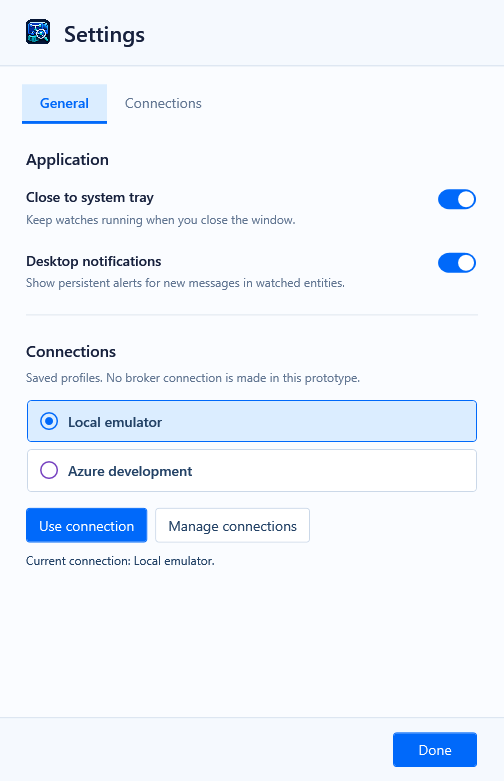
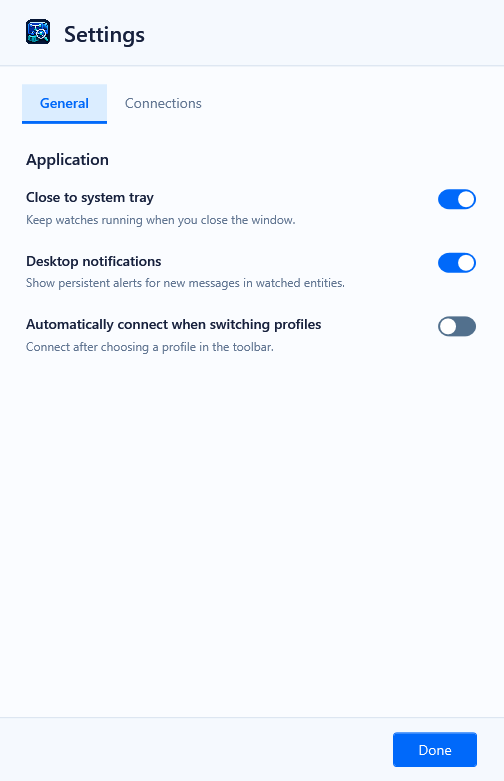
Simplify settings and add opt-in connection on profile switch

Changed region(s): [[0.0298, 0.3995, 0.9524, 0.6146], [0.0298, 0.6453, 0.5952, 0.7375], [0.8631, 0.3995, 0.9524, 0.4302]]

diff --git a/tools/ServiceBusEmulatorExplorer.InvestigationPrototype/PrototypeSettingsWindow.xaml b/tools/ServiceBusEmulatorExplorer.InvestigationPrototype/PrototypeSettingsWindow.xaml
@@ -35,14 +35,7 @@
      <Grid><Grid.ColumnDefinitions><ColumnDefinition Width="*"/><ColumnDefinition Width="Auto"/></Grid.ColumnDefinitions><StackPanel Margin="0,0,16,0"><TextBlock Text="Close to system tray" FontWeight="SemiBold"/><TextBlock Text="Keep watches running when you close the window." TextWrapping="Wrap" Foreground="{DynamicResource SecondaryBrush}" FontSize="12" Margin="0,5,0,0"/></StackPanel><ToggleButton x:Name="CloseToTrayToggle" Grid.Column="1" Style="{StaticResource Switch}" VerticalAlignment="Top" Checked="CloseToTray_Changed" Unchecked="CloseToTray_Changed" AutomationProperties.AutomationId="CloseToTrayToggle" AutomationProperties.Name="Close to system tray"/></Grid>
      <TextBlock x:Name="TrayUnavailableText" Text="System tray is unavailable in this session." Foreground="#8A5914" FontSize="12" TextWrapping="Wrap" Margin="0,8,0,0" Visibility="Collapsed"/>
      <Grid Margin="0,24,0,0"><Grid.ColumnDefinitions><ColumnDefinition Width="*"/><ColumnDefinition Width="Auto"/></Grid.ColumnDefinitions><StackPanel Margin="0,0,16,0"><TextBlock Text="Desktop notifications" FontWeight="SemiBold"/><TextBlock Text="Show persistent alerts for new messages in watched entities." TextWrapping="Wrap" Foreground="{DynamicResource SecondaryBrush}" FontSize="12" Margin="0,5,0,0"/></StackPanel><ToggleButton x:Name="NotificationsToggle" Grid.Column="1" Style="{StaticResource Switch}" VerticalAlignment="Top" Checked="Notifications_Changed" Unchecked="Notifications_Changed" AutomationProperties.AutomationId="NotificationsToggle" AutomationProperties.Name="Desktop notifications"/></Grid>
-     <Border Height="1" Background="{DynamicResource DividerBrush}" Margin="0,24"/>
-     <TextBlock Text="Connections" FontSize="16" FontWeight="SemiBold"/>
-     <TextBlock Text="Saved profiles. No broker connection is made in this prototype." TextWrapping="Wrap" Foreground="{DynamicResource SecondaryBrush}" FontSize="12" Margin="0,8,0,14"/>
-     <ListBox x:Name="ConnectionPicker" ItemContainerStyle="{StaticResource ProfileItem}" Background="Transparent" BorderThickness="0" SelectionMode="Single" ScrollViewer.HorizontalScrollBarVisibility="Disabled" SelectionChanged="ConnectionPicker_Selected" AutomationProperties.AutomationId="ConnectionPicker" AutomationProperties.Name="Connection to use">
-
-     </ListBox>
-     <WrapPanel Margin="0,8,0,0"><Button x:Name="UseConnectionButton" Content="Use connection" Style="{StaticResource PrimaryButton}" Margin="0,0,8,8" Click="UseConnection_Click" AutomationProperties.AutomationId="UseConnectionButton"/><Button Content="Manage connections" Margin="0,0,0,8" Click="ManageConnections_Click" AutomationProperties.AutomationId="ManageConnectionsButton"/></WrapPanel>
-     <TextBlock x:Name="ConnectionStatus" TextWrapping="Wrap" Foreground="{DynamicResource ActionTextBrush}" FontSize="12" Margin="0,2,0,0" AutomationProperties.AutomationId="ConnectionStatus" AutomationProperties.LiveSetting="Polite"/>
+     <Grid Margin="0,24,0,0"><Grid.ColumnDefinitions><ColumnDefinition Width="*"/><ColumnDefinition Width="Auto"/></Grid.ColumnDefinitions><StackPanel Margin="0,0,16,0"><TextBlock Text="Automatically connect when switching profiles" TextWrapping="Wrap" FontWeight="SemiBold"/><TextBlock Text="Connect after choosing a profile in the toolbar." TextWrapping="Wrap" Foreground="{DynamicResource SecondaryBrush}" FontSize="12" Margin="0,5,0,0"/></StackPanel><ToggleButton x:Name="AutoConnectToggle" Grid.Column="1" Style="{StaticResource Switch}" VerticalAlignment="Top" Checked="AutoConnect_Changed" Unchecked="AutoConnect_Changed" AutomationProperties.AutomationId="AutoConnectToggle" AutomationProperties.Name="Automatically connect when switching profiles"/></Grid>
     </StackPanel></ScrollViewer>
    </TabItem>
    <TabItem x:Name="ConnectionsTab" Header="Connections" AutomationProperties.AutomationId="ConnectionsTab">

diff --git a/tools/ServiceBusEmulatorExplorer.InvestigationPrototype/AutoConnectProof.cs b/tools/ServiceBusEmulatorExplorer.InvestigationPrototype/AutoConnectProof.cs
@@ -1,0 +1,119 @@
+using System.IO;
+using System.Reflection;
+using System.Windows;
+using System.Windows.Automation;
+using System.Windows.Automation.Peers;
+using System.Windows.Automation.Provider;
+using System.Windows.Controls;
+using System.Windows.Controls.Primitives;
+using System.Windows.Threading;
+
+namespace ServiceBusEmulatorExplorer.InvestigationPrototype;
+
+internal static class AutoConnectProof
+{
+    public static async Task Exercise(PrototypeWindow owner, List<string> report, string output)
+    {
+        var path = Path.Combine(output, "auto-connect-" + Guid.NewGuid().ToString("N") + ".json");
+        var window = new PrototypeWindow();
+        window.ConfigureApplicationLifetime(true);
+        Call(window, "InitializePreferences", path);
+        try
+        {
+            window.Show();
+            await Settle();
+            var selector = (ComboBox)window.FindName("ConnectionSelector");
+            var original = (PrototypeConnectionProfile)selector.SelectedItem;
+            var other = selector.Items.Cast<PrototypeConnectionProfile>().First(profile => profile != original);
+            var settings = await Settings(window);
+            var toggle = (ToggleButton)settings.FindName("AutoConnectToggle");
+            Check(toggle.IsChecked == false, "Automatically connect on profile switch defaults to off", report);
+            Click(settings, "DoneButton");
+            selector.SelectedItem = other;
+            await Settle();
+            Check(!window.Workspace.IsConnected, "Switching profiles with auto-connect off leaves the connection disconnected", report);
+            settings = await Settings(window);
+            toggle = (ToggleButton)settings.FindName("AutoConnectToggle");
+            ((IToggleProvider)(UIElementAutomationPeer.CreatePeerForElement(toggle) ?? new ToggleButtonAutomationPeer(toggle)).GetPattern(PatternInterface.Toggle)).Toggle();
+            Click(settings, "DoneButton");
+            selector.SelectedItem = original;
+            await Settle();
+            Check(window.Workspace.IsConnected, "Enabling auto-connect connects the newly selected profile", report);
+            other.WarningMessage = "Approve before connecting this proof profile.";
+            var prompts = Respond(() => selector.SelectedItem = other, false);
+            await Settle();
+            Check(prompts == 1 && ReferenceEquals(selector.SelectedItem, original) && window.Workspace.IsConnected,
+                "Auto-connect warning cancellation keeps the previously connected profile", report);
+            prompts = Respond(() => selector.SelectedItem = other, true);
+            await Settle();
+            Check(prompts == 1 && ReferenceEquals(selector.SelectedItem, other) && window.Workspace.IsConnected,
+                "Approving auto-connect warning connects once without a second prompt", report);
+            Click(window, "ConnectionButton");
+            settings = await Settings(window);
+            ((TabItem)settings.FindName("ConnectionsTab")).IsSelected = true;
+            await Settle();
+            ((TextBox)settings.FindName("ProfileName")).Text = other.Name + " edited";
+            Click(settings, "SaveProfileButton");
+            await Settle();
+            Check(!window.Workspace.IsConnected, "Saving the current profile does not trigger auto-connect", report);
+            Click(settings, "DoneButton");
+            window.Close();
+            await Settle();
+            var store = new PrototypePreferencesStore(path);
+            Check(store.TryLoad(out var preferences, out _) && preferences.AutoConnectOnSwitch,
+                "Auto-connect preference persists to an isolated preferences file", report);
+            var reopened = new PrototypeWindow();
+            reopened.ConfigureApplicationLifetime(true);
+            Call(reopened, "InitializePreferences", path);
+            try
+            {
+                reopened.Show();
+                await Settle();
+                settings = await Settings(reopened);
+                Check(((ToggleButton)settings.FindName("AutoConnectToggle")).IsChecked == true,
+                    "A fresh Settings window restores the saved auto-connect switch", report);
+                ProofCapture.Save(settings, output, "auto-connect-settings");
+                Click(settings, "DoneButton");
+            }
+            finally { reopened.Close(); }
+        }
+        finally { if (window.IsLoaded) window.Close(); }
+        await Settle();
+        owner.Activate();
+    }
+
+    private static int Respond(Action action, bool accept)
+    {
+        var count = 0;
+        var timer = new DispatcherTimer { Interval = TimeSpan.FromMilliseconds(10) };
+        timer.Tick += (_, _) =>
+        {
+            foreach (var warning in Application.Current.Windows.OfType<ProfileWarningWindow>().ToArray())
+            {
+                count++;
+                Click(warning, accept ? "ContinueButton" : "CancelButton");
+            }
+        };
+        timer.Start();
+        try { action(); }
+        finally { timer.Stop(); }
+        return count;
+    }
+
+    private static async Task<PrototypeSettingsWindow> Settings(PrototypeWindow window)
+    {
+        ProofCapture.Descendants(window).OfType<Button>().Single(button => AutomationProperties.GetName(button) == "Settings")
+            .RaiseEvent(new RoutedEventArgs(ButtonBase.ClickEvent));
+        await Settle();
+        return Application.Current.Windows.OfType<PrototypeSettingsWindow>().Single();
+    }
+    private static void Call(PrototypeWindow window, string method, params object[] args) => typeof(PrototypeWindow)
+        .GetMethod(method, BindingFlags.Instance | BindingFlags.NonPublic)!.Invoke(window, args);
+    private static void Click(Window window, string name) => ((ButtonBase)window.FindName(name)).RaiseEvent(new RoutedEventArgs(ButtonBase.ClickEvent));
+    private static Task Settle() => Application.Current.Dispatcher.InvokeAsync(() => { }, DispatcherPriority.ApplicationIdle).Task;
+    private static void Check(bool condition, string message, List<string> report)
+    {
+        if (!condition) throw new InvalidOperationException(message);
+        report.Add("- PASS: " + message);
+    }
+}

diff --git a/tools/ServiceBusEmulatorExplorer.InvestigationPrototype/PrototypeSettingsWindow.xaml.cs b/tools/ServiceBusEmulatorExplorer.InvestigationPrototype/PrototypeSettingsWindow.xaml.cs
@@ -9,6 +9,7 @@ public sealed class PrototypeConnectionSettings
     public PrototypeConnectionSettings() => SelectedProfile = Profiles[0];
 
     public PrototypeConnectionProfile SelectedProfile { get; set; }
+    public bool AutoConnectOnSwitch { get; set; }
 
     public List<PrototypeConnectionProfile> Profiles { get; } =
     [
@@ -84,16 +85,14 @@ public partial class PrototypeSettingsWindow : Window
         CloseToTrayToggle.IsEnabled = canCloseToTray;
         TrayUnavailableText.Visibility = canCloseToTray ? Visibility.Collapsed : Visibility.Visible;
         NotificationsToggle.IsChecked = notificationsEnabled;
+        AutoConnectToggle.IsChecked = connections.AutoConnectOnSwitch;
         ColorPicker.ItemsSource = new ProfileAccent[]
         {
             new("Blue", "#0069FA"), new("Purple", "#7540BF"), new("Teal", "#007F80"),
             new("Orange", "#B85B00"), new("Red", "#C83B3B")
         };
         ProfilesList.ItemsSource = connections.Profiles;
-        ConnectionPicker.ItemsSource = connections.Profiles;
-        ConnectionPicker.SelectedItem = connections.SelectedProfile;
         ProfilesList.SelectedItem = connections.SelectedProfile;
-        UpdateConnectionStatus();
         _ready = true;
     }
 
@@ -109,34 +108,11 @@ public partial class PrototypeSettingsWindow : Window
         _setNotifications(NotificationsToggle.IsChecked == true);
         _preferencesChanged?.Invoke();
     }
-    private void ManageConnections_Click(object sender, RoutedEventArgs e)
-    {
-        ProfilesList.SelectedItem = ConnectionPicker.SelectedItem;
-        SettingsTabs.SelectedItem = ConnectionsTab;
-    }
-
-    private void ConnectionPicker_Selected(object sender, SelectionChangedEventArgs e)
+    private void AutoConnect_Changed(object sender, RoutedEventArgs e)
     {
         if (!_ready) return;
-        UseConnectionButton.IsEnabled = ConnectionPicker.SelectedItem is PrototypeConnectionProfile;
-        UpdateConnectionStatus();
-    }
-
-    private void UpdateConnectionStatus()
-    {
-        ConnectionStatus.Text = $"Current connection: {_connections.SelectedProfile.Name}.";
-        if (ConnectionPicker.SelectedItem is PrototypeConnectionProfile selected &&
-            !ReferenceEquals(selected, _connections.SelectedProfile))
-            ConnectionStatus.Text += " Select Use connection to switch.";
-    }
-
-    private void UseConnection_Click(object sender, RoutedEventArgs e)
-    {
-        if (ConnectionPicker.SelectedItem is not PrototypeConnectionProfile profile) return;
-        if (_useConnection is null) _connections.SelectedProfile = profile;
-        else _useConnection(profile);
+        _connections.AutoConnectOnSwitch = AutoConnectToggle.IsChecked == true;
         _preferencesChanged?.Invoke();
-        UpdateConnectionStatus();
     }
 
     private void AddConnection_Click(object sender, RoutedEventArgs e)
@@ -146,7 +122,6 @@ public partial class PrototypeSettingsWindow : Window
         var profile = new PrototypeConnectionProfile($"Connection {number}", string.Empty, string.Empty);
         _connections.Profiles.Add(profile);
         ProfilesList.Items.Refresh();
-        ConnectionPicker.Items.Refresh();
         ProfilesList.SelectedItem = profile;
         ProfilesList.ScrollIntoView(profile);
         ProfileName.Focus();
@@ -180,9 +155,7 @@ public partial class PrototypeSettingsWindow : Window
         if (ColorPicker.SelectedItem is ProfileAccent accent) profile.ColorHex = accent.ColorHex;
         profile.WarningMessage = ConnectionWarning.Text.Trim();
         ProfilesList.Items.Refresh();
-        ConnectionPicker.Items.Refresh();
         if (ReferenceEquals(profile, _connections.SelectedProfile)) _useConnection?.Invoke(profile);
-        UpdateConnectionStatus();
         ProfileStatus.Text = "Profile updated. No connection was attempted.";
         _preferencesChanged?.Invoke();
     }

diff --git a/tools/ServiceBusEmulatorExplorer.InvestigationPrototype/SettingsSelectorProof.cs b/tools/ServiceBusEmulatorExplorer.InvestigationPrototype/SettingsSelectorProof.cs
@@ -45,7 +45,7 @@ internal static class SettingsSelectorProof
         popup.IsOpen = false;
         await ExerciseSettings(window, report, output);
         await ExerciseRefresh(window, report, output);
-        await ExerciseConnectionPicker(window, report, output);
+        await ExerciseToolbarConnection(window, report, output);
     }
 
     private static async Task ExerciseWatchOverview(PrototypeWindow window, List<string> report, string output)
@@ -157,22 +157,19 @@ internal static class SettingsSelectorProof
         await Settle();
     }
 
-    private static async Task ExerciseConnectionPicker(PrototypeWindow window, List<string> report, string output)
+    private static async Task ExerciseToolbarConnection(PrototypeWindow window, List<string> report, string output)
     {
-        var settings = await OpenSettings(window);
-        var picker = (ListBox)settings.FindName("ConnectionPicker");
+        var picker = (ComboBox)window.FindName("ConnectionSelector");
         var local = picker.Items.Cast<PrototypeConnectionProfile>().First(profile => profile.Name == "Local emulator");
         var azure = picker.Items.Cast<PrototypeConnectionProfile>().First(profile => profile != local);
-        Check(ReferenceEquals(picker.SelectedItem, local), "General connection picker starts on the current local emulator profile", report);
-        picker.SelectedItem = azure;
-        await Settle();
-        Check(((TextBlock)window.FindName("ConnectionName")).Text == local.Name, "Highlighting another profile does not switch the current connection", report);
+        Check(ReferenceEquals(picker.SelectedItem, local), "Header connection picker starts on the current local emulator profile", report);
+
         window.SetWatched(window.Workspace.EntityPath, true, true);
         var before = window.Workspace.SnapshotMessages().Count;
         window.SimulateWatchedArrivals();
         await Settle();
         Check(Application.Current.Windows.OfType<WatchNotificationWindow>().Any(), "Connection-switch proof starts with a pending watched arrival", report);
-        Click(settings, "UseConnectionButton");
+        picker.SelectedItem = azure;
         await Settle();
         Check(((TextBlock)window.FindName("ConnectionName")).Text == azure.Name && !window.Workspace.IsConnected,
             "Using a selected connection updates header and disconnects before investigation", report);
@@ -180,10 +177,8 @@ internal static class SettingsSelectorProof
             && ((TextBox)window.FindName("SearchBox")).Text.Length == 0,
             "Connection switch clears watches, pending notifications, and search", report);
         Check(window.Workspace.SnapshotMessages().Count < before + 1, "Connection switch resets the previous session's synthetic arrivals", report);
-        ProofCapture.Save(settings, output, "settings-connection-picker");
+        ProofCapture.Save(window, output, "header-connection-picker");
         picker.SelectedItem = local;
-        Click(settings, "UseConnectionButton");
-        Click(settings, "DoneButton");
         await Settle();
         if (!window.Workspace.IsConnected) Click(window, "ConnectionButton");
         await Settle();

diff --git a/tools/ServiceBusEmulatorExplorer.InvestigationPrototype/ProfileThemeProof.cs b/tools/ServiceBusEmulatorExplorer.InvestigationPrototype/ProfileThemeProof.cs
@@ -137,10 +137,11 @@ internal static class ProfileThemeProof
                 .RaiseEvent(new RoutedEventArgs(ButtonBase.ClickEvent));
             await Settle();
             var settings = Application.Current.Windows.OfType<PrototypeSettingsWindow>().Single();
-            ((ListBox)settings.FindName("ConnectionPicker")).SelectedItem = target;
-            await Respond(() => Click(settings, "UseConnectionButton"), true, false, output, "profile-warning-pending-settings-save", report, SaveWhilePending);
+            ((TabItem)settings.FindName("ConnectionsTab")).IsSelected = true;
+            ((ListBox)settings.FindName("ProfilesList")).SelectedItem = target;
+            Click(settings, "SaveProfileButton");
             Check(ReferenceEquals(selector.SelectedItem, approved) && window.Workspace.CorrelationQuery == query,
-                "Settings warning cancellation preserves the approved profile and applied search", report);
+                "Managing an inactive profile preserves the approved connection and applied search", report);
             settings.Close();
         }
         finally { window.Close(); }

diff --git a/tools/ServiceBusEmulatorExplorer.InvestigationPrototype/PreferenceInteractions.cs b/tools/ServiceBusEmulatorExplorer.InvestigationPrototype/PreferenceInteractions.cs
@@ -37,6 +37,7 @@ public partial class PrototypeWindow
     {
         closeToTray = preferences.CloseToTray && (tray is not null || proofLifetime);
         notificationsEnabled = preferences.NotificationsEnabled;
+        connectionSettings.AutoConnectOnSwitch = preferences.AutoConnectOnSwitch;
         Width = Math.Clamp(preferences.Width, MinWidth, Math.Max(MinWidth, SystemParameters.WorkArea.Width));
         Height = Math.Clamp(preferences.Height, MinHeight, Math.Max(MinHeight, SystemParameters.WorkArea.Height));
         AutoInterval.SelectedIndex = Math.Clamp(preferences.RefreshIndex, 0, 3);
@@ -86,6 +87,7 @@ public partial class PrototypeWindow
         preferences.SelectedProfileId = connectionSettings.SelectedProfile.Id;
         preferences.CloseToTray = closeToTray;
         preferences.NotificationsEnabled = notificationsEnabled;
+        preferences.AutoConnectOnSwitch = connectionSettings.AutoConnectOnSwitch;
         preferences.RefreshIndex = AutoInterval.SelectedIndex;
         preferences.RefreshPaused = paused;
         preferences.SearchByMessageId = Workspace.SearchByMessageId;

diff --git a/tools/ServiceBusEmulatorExplorer.InvestigationPrototype/InvestigationProof.cs b/tools/ServiceBusEmulatorExplorer.InvestigationPrototype/InvestigationProof.cs
@@ -40,6 +40,7 @@ internal static class InvestigationProof
             await PreferencesProof.Exercise(window, report, output);
             await ProfileThemeProof.Exercise(window, report, output);
             await AddConnectionProof.Exercise(window, report, output);
+            await AutoConnectProof.Exercise(window, report, output);
             File.WriteAllLines(Path.Combine(output, "report.md"), report);
             return 0;
         }

diff --git a/tools/ServiceBusEmulatorExplorer.InvestigationPrototype/PrototypePreferences.cs b/tools/ServiceBusEmulatorExplorer.InvestigationPrototype/PrototypePreferences.cs
@@ -22,6 +22,7 @@ public sealed class PrototypePreferences
     public bool CloseToTray { get; set; } = true;
     public bool NotificationsEnabled { get; set; } = true;
     public bool Connected { get; set; } = true;
+    public bool AutoConnectOnSwitch { get; set; }
     public int RefreshIndex { get; set; }
     public bool RefreshPaused { get; set; }
     public bool SearchByMessageId { get; set; }

diff --git a/tools/ServiceBusEmulatorExplorer.InvestigationPrototype/WatchInteractions.cs b/tools/ServiceBusEmulatorExplorer.InvestigationPrototype/WatchInteractions.cs
@@ -357,6 +357,7 @@ public partial class PrototypeWindow
         });
         UpdateWatchSurface();
         AddLog($"Selected {profile.Name}. Connect to load its sample messages.");
+        if (connectionSettings.AutoConnectOnSwitch) Connection_Click(this, new RoutedEventArgs());
         SavePreferences();
     }
 }

diff --git a/specs/investigation-workspace-handoff.md b/specs/investigation-workspace-handoff.md
@@ -7,7 +7,7 @@ Prepared 2026-09-11; prototype decisions updated 2026-09-12. This is a simple ha
 - Current branch: `prototype/investigation-workspace`; audit baseline `c8af97c`. Use the normal checkout. Preserve unrelated changes.
 - Visual/interaction reference: [prototype](../tools/ServiceBusEmulatorExplorer.InvestigationPrototype/README.md) and its [current preview](../tools/ServiceBusEmulatorExplorer.InvestigationPrototype/preview.png). Apply [UI language and audit corrections](ui-language.md) consistently; preserve the approved layout.
 - Destination: existing WPF [App](../src/ServiceBusEmulatorExplorer.App/ServiceBusEmulatorExplorer.App.csproj) using existing [Core contracts](../src/ServiceBusEmulatorExplorer.Core/ServiceBus/ServiceBusContracts.cs). Keep the prototype as a reference until parity is proven. Do not just rename its executable or ship its synthetic Workspace.
-- Current evidence: 329 routed walkthrough checks and an 11-check real tray run pass, including profile/Watch preferences, typed deletion and shared styling. Full-profile themes, saved warnings, new profiles and simplified Watch search pass the current rendered walkthrough. No new broker integration tests were run for this audit. The proof uses synthetic messages and is not a production readiness certificate.
+- Current evidence: 333 routed walkthrough checks and an 11-check real tray run pass, including profile/Watch preferences, typed deletion and shared styling. Full-profile themes, saved warnings, new profiles and simplified Watch search pass the current rendered walkthrough. No new broker integration tests were run for this audit. The proof uses synthetic messages and is not a production readiness certificate.
 
 ## Requirements mapped to what exists
 
@@ -16,7 +16,7 @@ Prepared 2026-09-11; prototype decisions updated 2026-09-12. This is a simple ha
 | Conversation requirement | Current state | Promotion work |
 | --- | --- | --- |
 | Small daily-investigation UI; remove redundant headings | Approved layout implemented | Replace old shell surface; do not bring back all old administration buttons |
-| Emulator and Azure connection selection | Toolbar dropdown and Settings selection; Add connection opens a blank uniquely named profile without switching; Save persists | Reuse real profile/auth validation; persist selected profile and color separately from connection health |
+| Emulator and Azure connection selection | Toolbar dropdown with opt-in auto-connect; Settings manages profiles; Add connection opens a blank uniquely named profile without switching; Save persists | Reuse real profile/auth validation; persist selected profile and color separately from connection health |
 | Profile identity and connection health | Active profile theme covers buttons, selected states and surface tints across windows; separate fixed health, DLQ and red Delete colors | Bind health to structured connection/operation outcomes; color alone must not communicate status |
 | Queues, topics, subscriptions and Message/DLQ totals | Sample tree, distinct icons; unknown sample counts | Bind real tree and typed known/unknown/stale count state; topic totals are delivery totals across subscriptions |
 | First 50 on scope/bucket change; Load more | Implemented against fixtures | Per-source cursors, cancellation, stale-request rejection; settle topic aggregate paging |
@@ -62,7 +62,7 @@ Answer by Q number. Recommendations are proposals, not already approved decision
 | Q10 | Topic view pagination: 50 total or 50 per subscription? | 50 combined deliveries with source identity, matching the simple UI; per-source cursors required. |
 | Q11 | Minimum-window density? | Keep approved compact layout and normalized tokens. Decide whether to auto-collapse the console on very small windows. |
 
-Settled scope: delete supports Active and DLQ, focused or checked messages, with explicit typed `DELETE` confirmation. Connection selection is available in the toolbar and Settings; a saved profile color themes buttons, selection and surfaces across windows while semantic health, DLQ and red Delete colors retain their meanings. Add connection creates an empty editable profile without switching. An optional saved warning requires confirmation before switching, Connect or restored startup connection attempts; Cancel preserves the old connection or blocks the pending attempt. Watch search uses an inline magnifier and concise placeholder. Watch supports global and topic rules, including subsequently discovered entities, with a searchable inclusion tree and mixed parent states. A branch choice applies to descendants, and more specific child choices override inherited inclusion. Profiles and user selections/preferences persist across launches; Watch rules belong to a profile. These interaction decisions do not settle real polling or broker mutation algorithms above.
+Settled scope: delete supports Active and DLQ, focused or checked messages, with explicit typed `DELETE` confirmation. Connection selection uses the toolbar dropdown; Settings retains profile management and an off-by-default, saved auto-connect-on-switch option. Warning approval remains required before automatic connection; a saved profile color themes buttons, selection and surfaces across windows while semantic health, DLQ and red Delete colors retain their meanings. Add connection creates an empty editable profile without switching. An optional saved warning requires confirmation before switching, Connect or restored startup connection attempts; Cancel preserves the old connection or blocks the pending attempt. Watch search uses an inline magnifier and concise placeholder. Watch supports global and topic rules, including subsequently discovered entities, with a searchable inclusion tree and mixed parent states. A branch choice applies to descendants, and more specific child choices override inherited inclusion. Profiles and user selections/preferences persist across launches; Watch rules belong to a profile. These interaction decisions do not settle real polling or broker mutation algorithms above.
 
 ## Reuse and the traps to avoid
 

diff --git a/tools/ServiceBusEmulatorExplorer.InvestigationPrototype/README.md b/tools/ServiceBusEmulatorExplorer.InvestigationPrototype/README.md
@@ -46,7 +46,7 @@ Choose **Watch** for Active messages, DLQ messages, or both. Global Watch covers
 
 Notifications use a separate, persistent WPF desktop window, not a timed native Windows toast. They remain while the main window is hidden, group arrivals by entity/bucket, and offer **Investigate** and **Dismiss**. Investigate restores the main window and adds notified correlation IDs to the applied search using OR, retaining prior cases and focusing the latest notified message. Already-covered criteria are not duplicated. A message without a correlation ID adds its exact message ID instead; mixed searches use explicit correlation: or message: prefixes so existing criteria retain their meaning. Unapplied input text is replaced by the combined applied search; Dismiss leaves messages untouched. Stop watching clears that target's pending notifications.
 
-Closing the main window sends it to the Windows tray by default. Double-click the real app tray icon or use **Open Service Bus Explorer** to restore it; **Exit** stops the process. Choose a connection in the toolbar dropdown or in Settings with **Use connection**. Switching profiles disconnects and resets the synthetic investigation; Watch rules are stored per profile. Connect starts the selected sample session. The Settings gear opens **General** and **Connections** pages. General controls close-to-tray and desktop notifications. Manage connections edits profiles separately, including masked runtime/administration fields and a named color palette. Save profile keeps edits for later launches. The active profile color themes buttons, selected states and surface tints throughout the app, Settings and related windows, as well as the dropdown swatch and accent border. Semantic DLQ and destructive colors remain fixed; Delete stays clearly red. A separate labeled health indicator uses green for connected, red for disconnected and amber for warnings. The profile color is independent of health.
+Closing the main window sends it to the Windows tray by default. Double-click the real app tray icon or use **Open Service Bus Explorer** to restore it; **Exit** stops the process. Choose a connection in the toolbar dropdown. General settings no longer duplicate this picker. Switching profiles disconnects and resets the synthetic investigation; Watch rules are stored per profile. Connect starts the selected sample session. The Settings gear opens **General** and **Connections** pages. General controls close-to-tray, desktop notifications and **Automatically connect when switching profiles**. This saved option is off by default; when enabled, an approved profile switch also connects. Configured warnings still require confirmation. Turning it on or saving a profile does not itself connect. The Connections tab edits profiles separately, including masked runtime/administration fields and a named color palette. Save profile keeps edits for later launches. The active profile color themes buttons, selected states and surface tints throughout the app, Settings and related windows, as well as the dropdown swatch and accent border. Semantic DLQ and destructive colors remain fixed; Delete stays clearly red. A separate labeled health indicator uses green for connected, red for disconnected and amber for warnings. The profile color is independent of health.
 
 **Add connection** creates a uniquely named profile with empty connection strings and opens its editor without changing the active connection. Set its name, color and optional **Connection warning**, then Save profile. A saved warning appears before switching to or connecting that profile, including restored startup connections. Cancel preserves the previous connection when switching and prevents the pending connection attempt. Leave the warning empty to disable that confirmation. Editing another profile's color does not preview its theme over the active connection.
 
@@ -64,7 +64,7 @@ See the [requirements, open questions and worker handoff](../../specs/investigat
 
 ## Rendered evidence
 
-Current verification: build with zero warnings/errors and **329 passing checks**, including typed deletion, Watch inclusion, profile health/colors and protected preference save/reopen. The [real tray lifetime proof](tray-verification.md) passes **11 checks**. Full-profile themes, saved warnings, new profiles and simplified Watch search pass the current rendered walkthrough. Verification uses isolated preference files; broker operations remain synthetic.
+Current verification: build with zero warnings/errors and **333 passing checks**, including typed deletion, Watch inclusion, profile health/colors and protected preference save/reopen. The [real tray lifetime proof](tray-verification.md) passes **11 checks**. Full-profile themes, saved warnings, new profiles and simplified Watch search pass the current rendered walkthrough. Verification uses isolated preference files; broker operations remain synthetic.
 
 | UI gate | Result | Evidence |
 | --- | --- | --- |

diff --git a/specs/ui-language.md b/specs/ui-language.md
@@ -59,7 +59,8 @@ Do not confuse glyph dimensions with hit targets. Keep Copy beside the correlati
 - Verify global and topic Watch scope, Active/DLQ independence, future-entity inheritance and child overrides. The searchable inclusion tree uses checked/unchecked/mixed states; a branch choice applies to its descendants and a later specific child choice overrides inherited inclusion. A scope summary must not imply a topic itself is a receiving endpoint.
 - Delete remains a visible action with exact typed `DELETE` confirmation showing targeted Active/DLQ counts. Checked messages form the batch; otherwise the focused message is targeted. Cancellation changes nothing; unseen messages are never implied by select-all.
 
+- General settings omit the duplicate connection picker. Automatically connect when switching profiles is an opt-in saved switch; it does not bypass warnings or connect on profile edits.
 - Add connection opens a uniquely named empty editor without changing the active connection; Save persists its color and optional warning. Saved warnings gate switching, Connect and restored startup attempts. Cancel preserves the previous connection or leaves the pending attempt disconnected.
 - Watch search uses an inline magnifier and concise placeholder; keep its accessible name without a verbose duplicate instruction.
 
-Current gate: **visual consistency and routed flows PASS** at the three supported window sizes, with 329 walkthrough checks and 11 real tray checks. Typed confirmation, inclusion-tree Watch, profile colors/health and protected preference save/reopen are covered by the [walkthrough](../tools/ServiceBusEmulatorExplorer.InvestigationPrototype/verification.md). Full-profile themes, saved warning flows, Add connection and simplified Watch search pass the current rerun, including saving while a warning is pending and restored DLQ browsing. **Broader physical keyboard, screen-reader and Windows DPI/multi-monitor evidence remains BLOCKED (not collected).** Synthetic interactions do not establish broker correctness or a complete accessibility audit.
+Current gate: **visual consistency and routed flows PASS** at the three supported window sizes, with 333 walkthrough checks and 11 real tray checks. Typed confirmation, inclusion-tree Watch, profile colors/health and protected preference save/reopen are covered by the [walkthrough](../tools/ServiceBusEmulatorExplorer.InvestigationPrototype/verification.md). Full-profile themes, saved warning flows, Add connection and simplified Watch search pass the current rerun, including saving while a warning is pending and restored DLQ browsing. **Broader physical keyboard, screen-reader and Windows DPI/multi-monitor evidence remains BLOCKED (not collected).** Synthetic interactions do not establish broker correctness or a complete accessibility audit.
